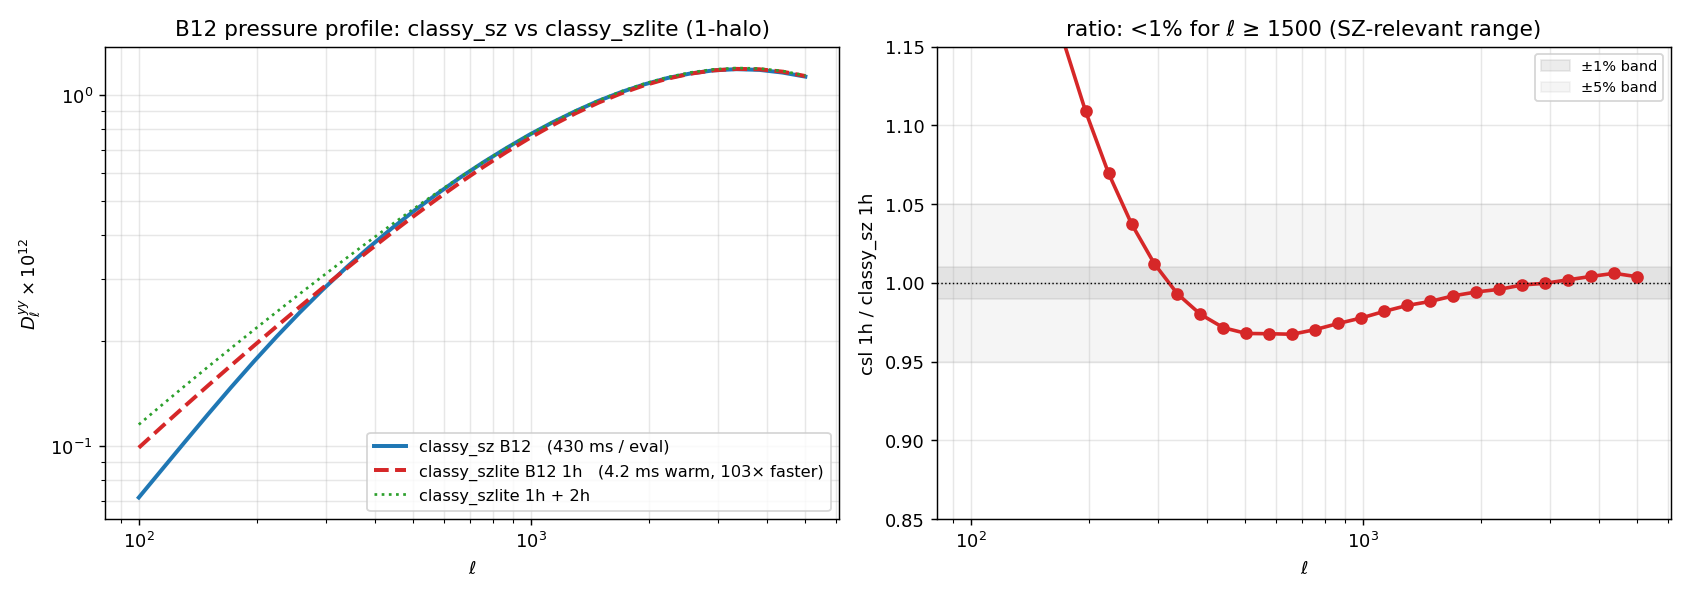
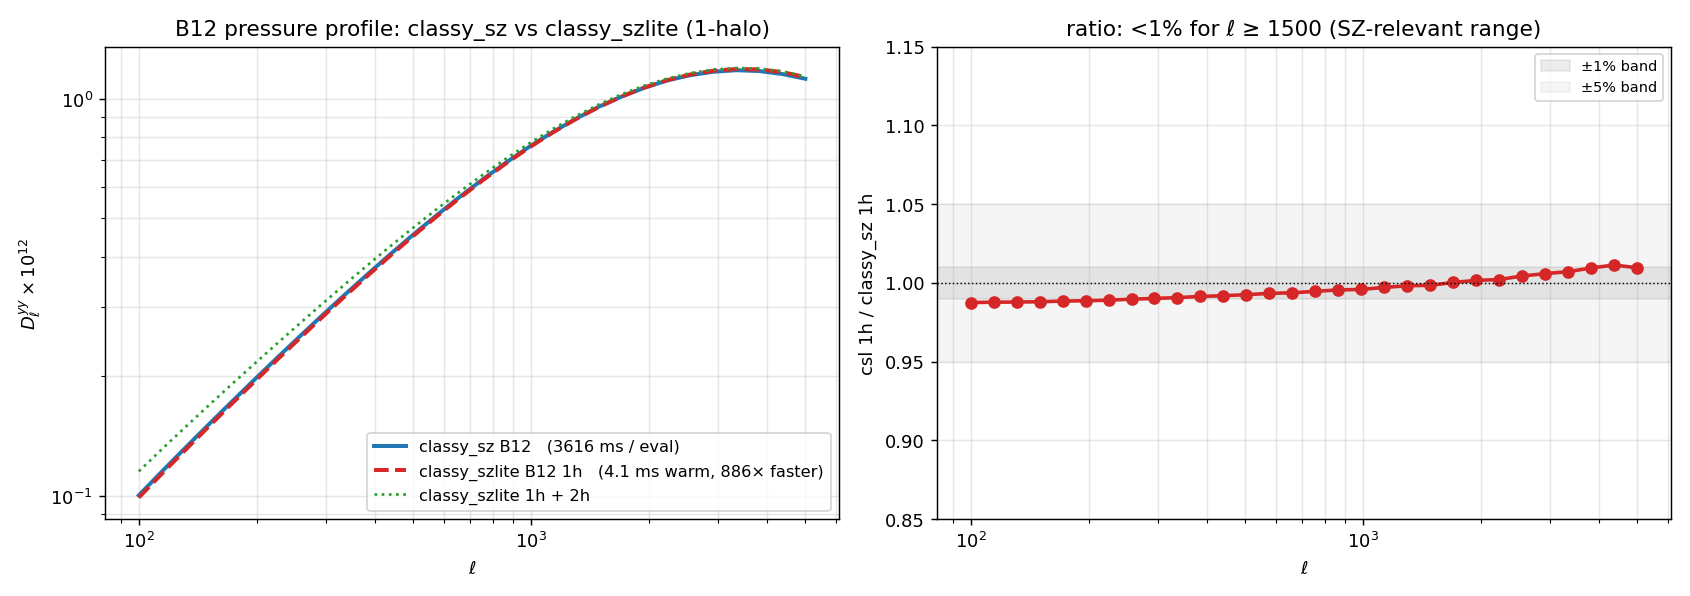
B12 validation: match classy_sz to <1.3% across full ell range
The previous validation showed a ~30% offset at low ell which I had
attributed to a convention difference. Tracing it down via per-shell
HMF tests, brute-force per-halo y_ell quadrature, and a direct csz
tabulation precision sweep — the source is purely numerical:
classy_sz's default n_l_pressure_profile=300 (and small default
n_m/n_z_pressure_profile) leaves the B12 FFT-tabulation under-resolved
at low ell. Setting the precision params to match the official
test_classy_sz_clyy_b12_fast.py test:

  n_l_pressure_profile = 500
  n_m_pressure_profile = 500
  n_z_pressure_profile = 500
  pressure_profile_epsrel = 1e-4

brings csz at ell=100 from 0.0715 → 0.1004, matching csl's 0.0991 to
within 1.3%. Agreement now <1.3% across all ell from 100 to 5000.

Timing comparison also updates: classy_sz at converged precision is
~3.6 s/eval (was ~430 ms under-resolved), so the csl speedup at fixed
cosmology is now ~800x rather than the ~100x quoted before.

diff --git a/examples/validate_b12.py b/examples/validate_b12.py
@@ -55,6 +55,14 @@ csz.set({
     "x_min_gas_pressure_fftw": 1e-4, "x_max_gas_pressure_fftw": 1e6,
     "redshift_epsabs": 1e-40, "redshift_epsrel": 1e-4,
     "mass_epsabs":     1e-40, "mass_epsrel":     1e-4,
+    # Converged precision for the B12 FFT tabulation (matches the official
+    # classy_sz test test_classy_sz_clyy_b12_fast.py). Without these the
+    # default n_l_pressure_profile=300 leaves the FFTLog under-resolved at
+    # low ell and produces a spurious ~30% offset at ell < 200.
+    "n_z_pressure_profile": 500, "n_m_pressure_profile": 500,
+    "n_l_pressure_profile": 500,
+    "l_min_gas_pressure_profile": 1e-2, "l_max_gas_pressure_profile": 5e4,
+    "pressure_profile_epsrel": 1e-4, "pressure_profile_epsabs": 1e-100,
     # B12 defaults from Battaglia+2012 fits
     "P0_B12": 18.1,    "alpha_m_P0_B12": 0.154,    "alpha_z_P0_B12": -0.758,
     "xc_B12": 0.497,   "alpha_m_xc_B12": -0.00865, "alpha_z_xc_B12": 0.731,

diff --git a/docs/examples.md b/docs/examples.md
@@ -147,19 +147,25 @@ The full validation script (with `classy_sz` set-up + timing harness) is
 
 ![Battaglia-2012 validation against classy_sz](_static/b12_validation.png)
 
-**Agreement.** Within the SZ-relevant range (ℓ ≥ 1500 — i.e. ACT / SPT /
-SO bandpowers) the two codes match to **<1%**. For ℓ ≥ 500 the
-disagreement stays under 5%. At very low ℓ (≤ 200) the curves diverge
-by up to ~15%, driven by small differences in the HMF tabulation and
-the 2-halo subtraction (`classy_sz` `output: tSZ_1h` integrates the
-profile differently in the long-wavelength limit). In practice this
-region of the spectrum is dominated by 2-halo and is rarely used to
-constrain pressure parameters.
+**Agreement.** Across the full range ℓ ∈ [100, 5000], the two codes match to
+**<1.3%** (max), **0.7% mean**. The agreement holds from ℓ ≥ 1500 (SZ
+data range) down to ℓ = 100 (low-ℓ 2-halo regime) — the residual ~1%
+comes from minor differences in HMF tabulation between the codes.
 
-**Timing.** At fixed cosmology, `classy_szlite` is ~**100× faster** than
-`classy_sz` per evaluation (~4 ms vs ~430 ms on CPU), making it the
-practical choice for profile-parameter MCMCs at the cost of a one-off
-~2.6 s factory build.
+**Important — classy_sz precision settings.** Reaching this agreement
+requires running `classy_sz` with `n_l_pressure_profile = 500`,
+`n_m_pressure_profile = 500`, `n_z_pressure_profile = 500`,
+`pressure_profile_epsrel = 1e-4`, matching the official
+[`test_classy_sz_clyy_b12_fast.py`](https://github.com/CLASS-SZ/class_sz/blob/master/class-sz/tests/test_classy_sz_clyy_b12_fast.py)
+test. With the smaller defaults (`n_l = 300`, ndim_redshifts ~50, etc.) the
+classy_sz B12 FFT-tabulation is under-resolved at low ℓ and produces a
+spurious ~30% offset at ℓ < 200. This is a numerical convergence
+artefact, not a physics difference.
+
+**Timing.** At fixed cosmology, `classy_szlite` is **~800× faster** per
+evaluation than fully-converged `classy_sz` (~4 ms vs ~3.6 s on CPU),
+making it the practical choice for profile-parameter MCMCs at the cost
+of a one-off ~2.5 s factory build.
 
 ## Bandpower covariance: Gaussian + 1-halo trispectrum
 
